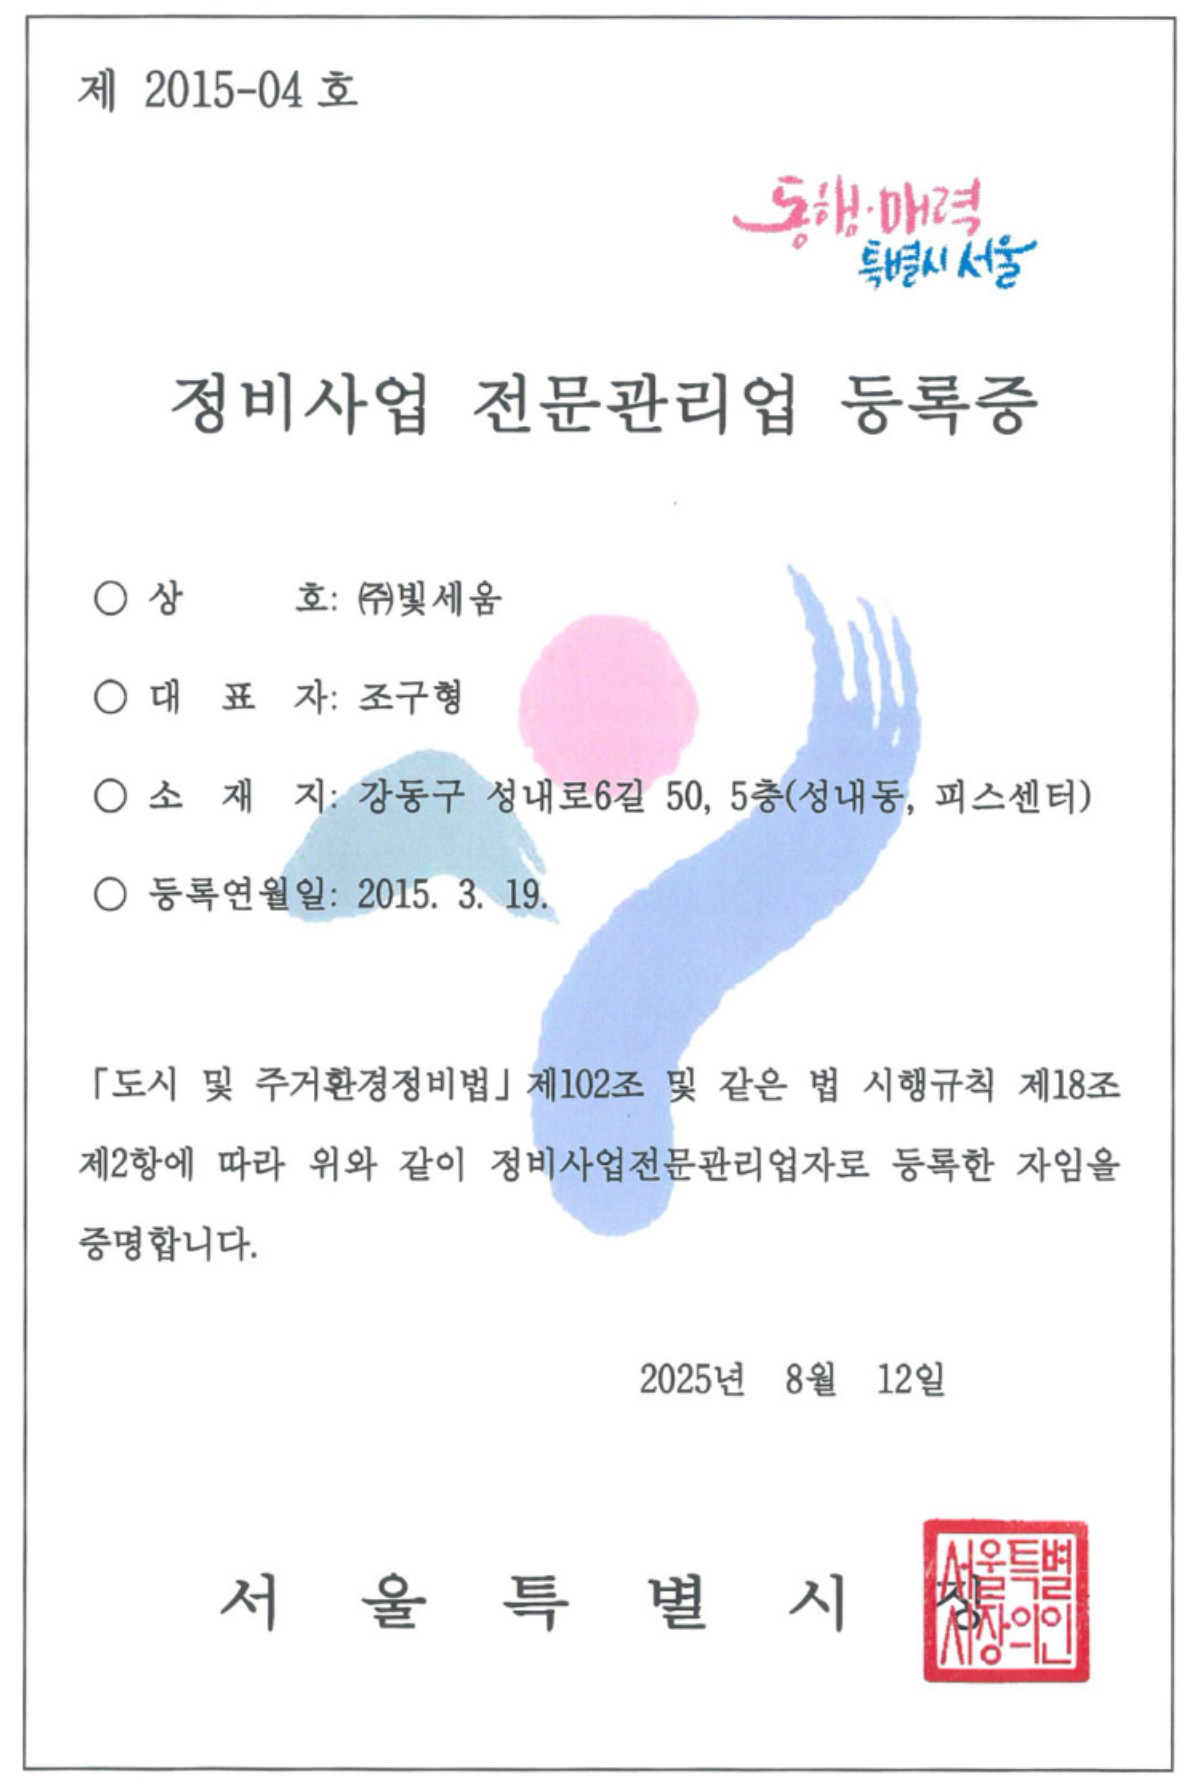
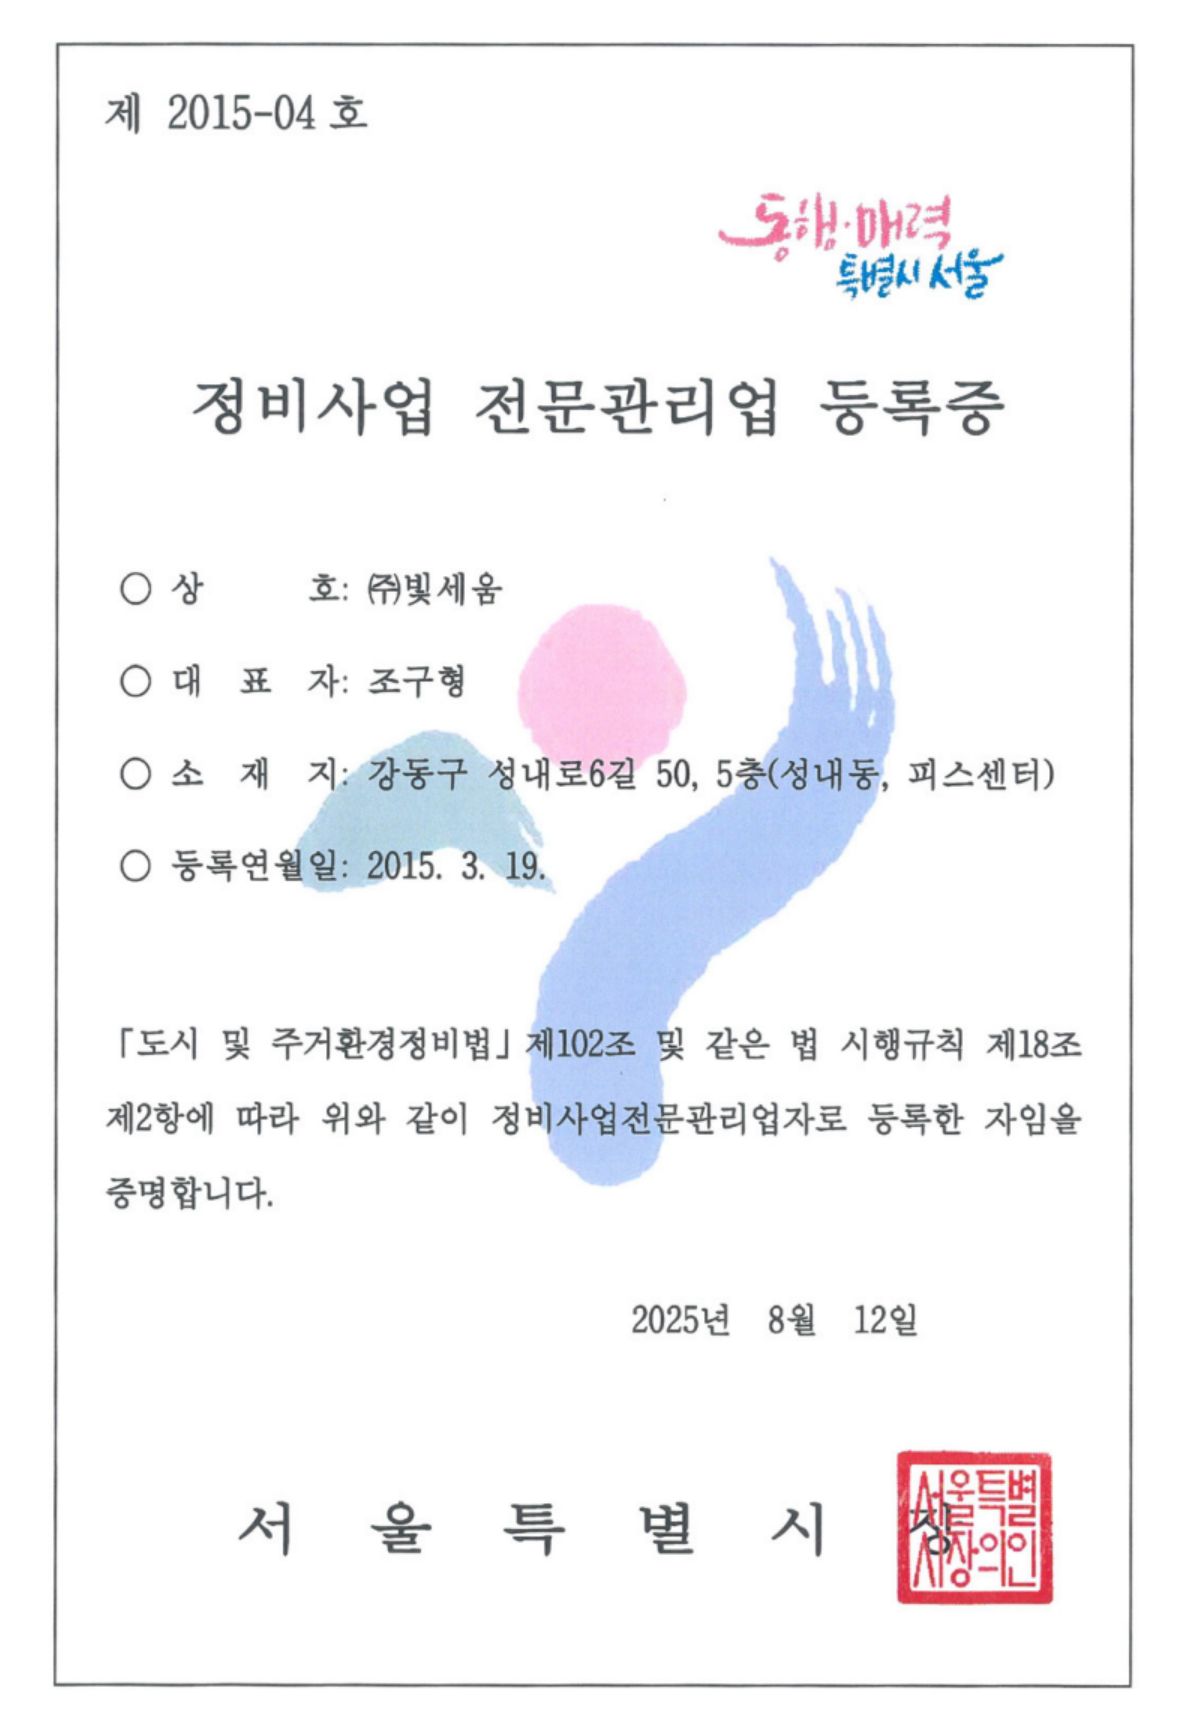
fix: 정비사업등록증(2015) 이미지 재교체 및 외곽선 두께 1.5배 확대
대장 지시(2026-09-05): 회사소개 정비사업등록증 우측(2015년 재등록증) 이미지를
새 스캔본으로 재교체. 외곽선 색상(#cecece)은 유지하고 두께만 1px → 1.5px로 확대.

Claude-Session: https://claude.ai/code/session_01QMc5XPnhYkmwPfff3XaSi7

diff --git a/redevelopment/pages/about.html b/redevelopment/pages/about.html
@@ -422,7 +422,7 @@
         object-fit: contain;
         box-shadow: none; border-radius: 0;
     }
-    .cert-stacked .cert-photo img.cert-2015-wide { width: 480px; border: 1px solid #cecece; box-sizing: border-box; } /* 좌우폭 확장 + 옅은 회색 외곽선 (대장 지시 2026-09-05) */
+    .cert-stacked .cert-photo img.cert-2015-wide { width: 480px; border: 1.5px solid #cecece; box-sizing: border-box; } /* 좌우폭 확장 + 옅은 회색 외곽선, 두께 1.5배 (대장 지시 2026-09-05) */
     @media (max-width: 1024px) {
         .cert-stacked .cert-photo { gap: 18px; padding: 36px 15px; }
         .cert-stacked .cert-photo img { height: 502px; }
